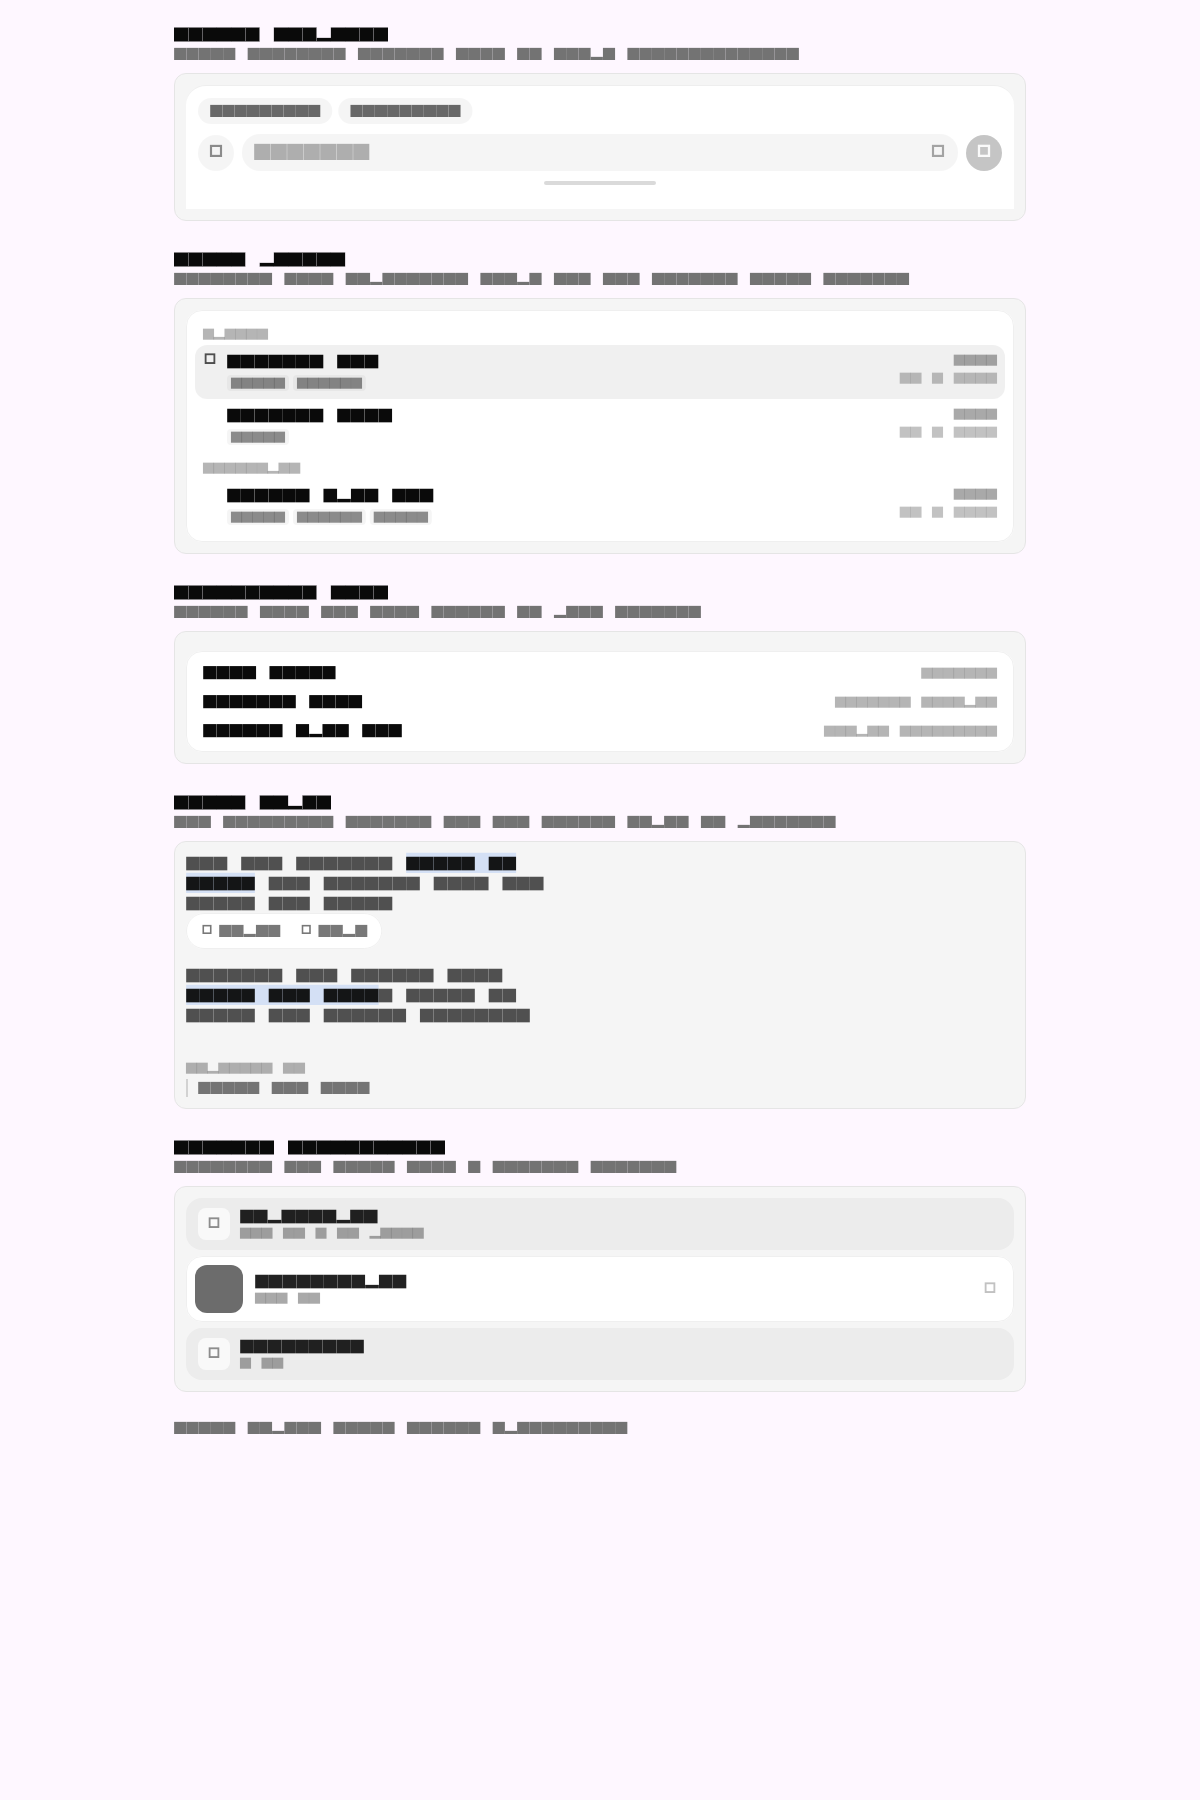
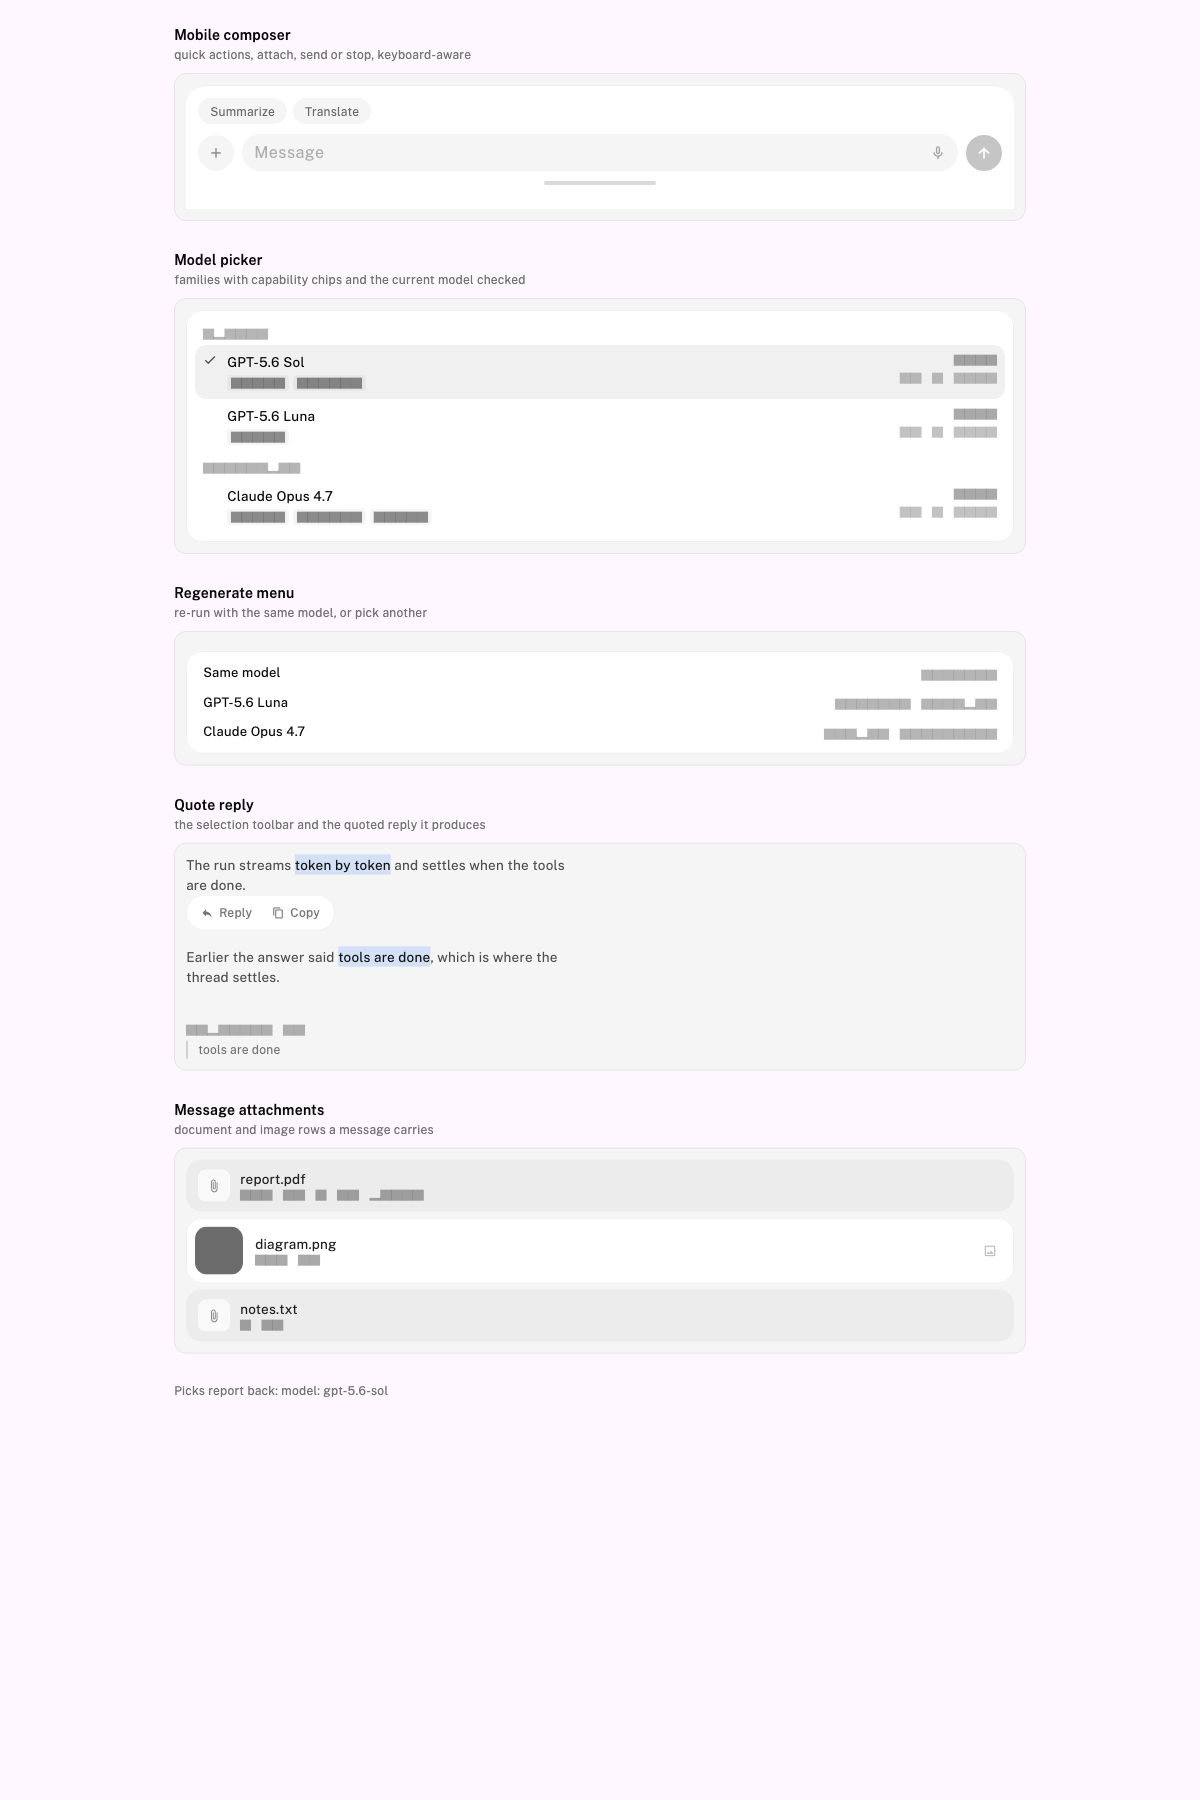
docs: captures that read
The gallery captures loaded no font, so the test binding drew every label as a
box. They now load the fonts the port is designed against (Public Sans, JetBrains
Mono) from the landing, and the Material icon font from the SDK cache, so the
PNGs under `doc/gallery/` show what a reader sees — icons included.

`example/tool/capture_gallery_test.dart` stays outside `test/`: goldens are
font-sensitive, and on another machine they would drift. They are evidence, not a
gate.

diff --git a/example/tool/capture_gallery_test.dart b/example/tool/capture_gallery_test.dart
@@ -5,8 +5,12 @@
 //
 // Kept out of `test/` on purpose: goldens are font-sensitive, and the CI machine
 // is not the machine these were captured on, so they are evidence, not a gate.
+import 'dart:io';
+import 'dart:typed_data';
+
 import 'package:assistant_ui_example/main.dart';
 import 'package:flutter/material.dart';
+import 'package:flutter/services.dart';
 import 'package:flutter_test/flutter_test.dart';
 
 /// The pages the picker offers, under the names they carry there, with the
@@ -21,7 +25,44 @@ const Map<String, (Widget, double)> _pages = <String, (Widget, double)>{
   'surfaces': (SurfacesDemo(), 1800),
 };
 
+/// The test binding draws text as boxes unless a real font is loaded; the
+/// landing bundles the one the port is designed against, so the captures read.
+Future<void> _loadFonts() async {
+  // The icons come from the Material font the SDK caches, so the captures show
+  // glyphs rather than boxes.
+  final String? flutterRoot = Platform.environment['FLUTTER_ROOT'] ??
+      _flutterRootFromTool();
+  final List<(String, String)> fonts = <(String, String)>[
+    ('Public Sans', '../landing/assets/fonts/PublicSans[wght].ttf'),
+    ('JetBrains Mono', '../landing/assets/fonts/JetBrainsMono[wght].ttf'),
+    if (flutterRoot != null)
+      (
+        'MaterialIcons',
+        '$flutterRoot/bin/cache/artifacts/material_fonts/MaterialIcons-Regular.otf',
+      ),
+  ];
+  for (final (String family, String path) in fonts) {
+    final File file = File(path);
+    if (!file.existsSync()) continue;
+    final Uint8List bytes = file.readAsBytesSync();
+    final FontLoader loader = FontLoader(family)
+      ..addFont(Future<ByteData>.value(ByteData.view(bytes.buffer)));
+    await loader.load();
+  }
+}
+
+/// `flutter test` puts the SDK's `flutter` on PATH; its parent is the root.
+String? _flutterRootFromTool() {
+  for (final String dir in (Platform.environment['PATH'] ?? '').split(':')) {
+    final File tool = File('$dir/flutter');
+    if (tool.existsSync()) return Directory(dir).parent.path;
+  }
+  return null;
+}
+
 void main() {
+  setUpAll(_loadFonts);
+
   for (final MapEntry<String, (Widget, double)> entry in _pages.entries) {
     testWidgets('capture ${entry.key}', (WidgetTester tester) async {
       tester.view.physicalSize = Size(1200, entry.value.$2);
@@ -29,7 +70,10 @@ void main() {
       addTearDown(tester.view.reset);
       await tester.pumpWidget(
         MaterialApp(
-          theme: ThemeData(useMaterial3: true),
+          theme: ThemeData(
+            useMaterial3: true,
+            fontFamily: 'Public Sans',
+          ),
           debugShowCheckedModeBanner: false,
           home: Scaffold(body: entry.value.$1),
         ),
